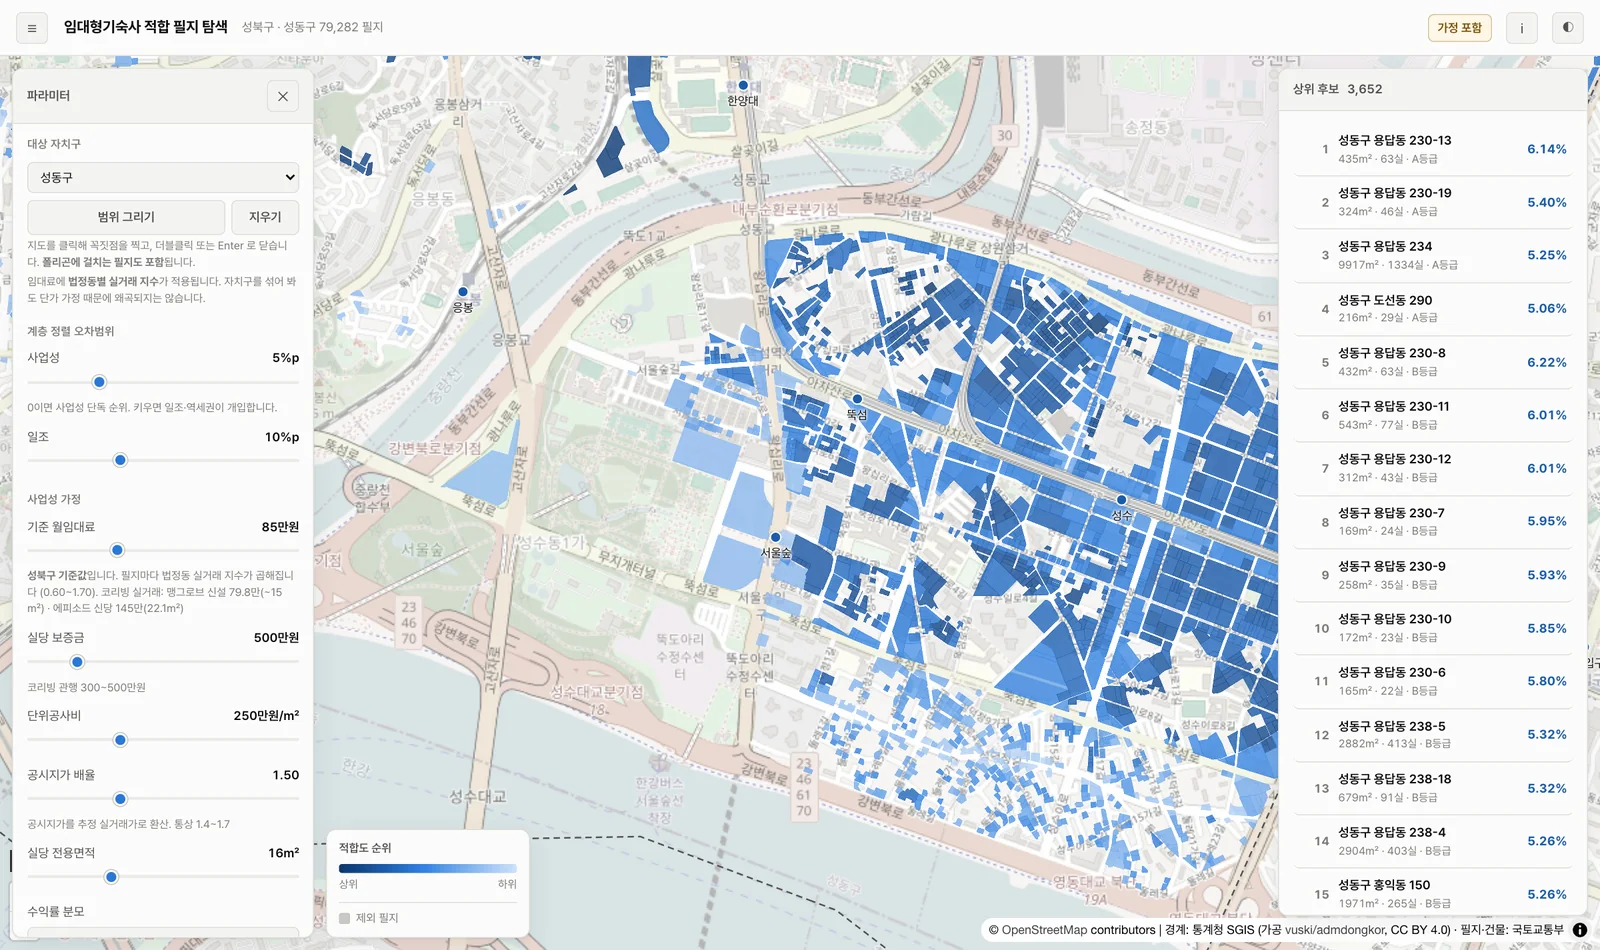
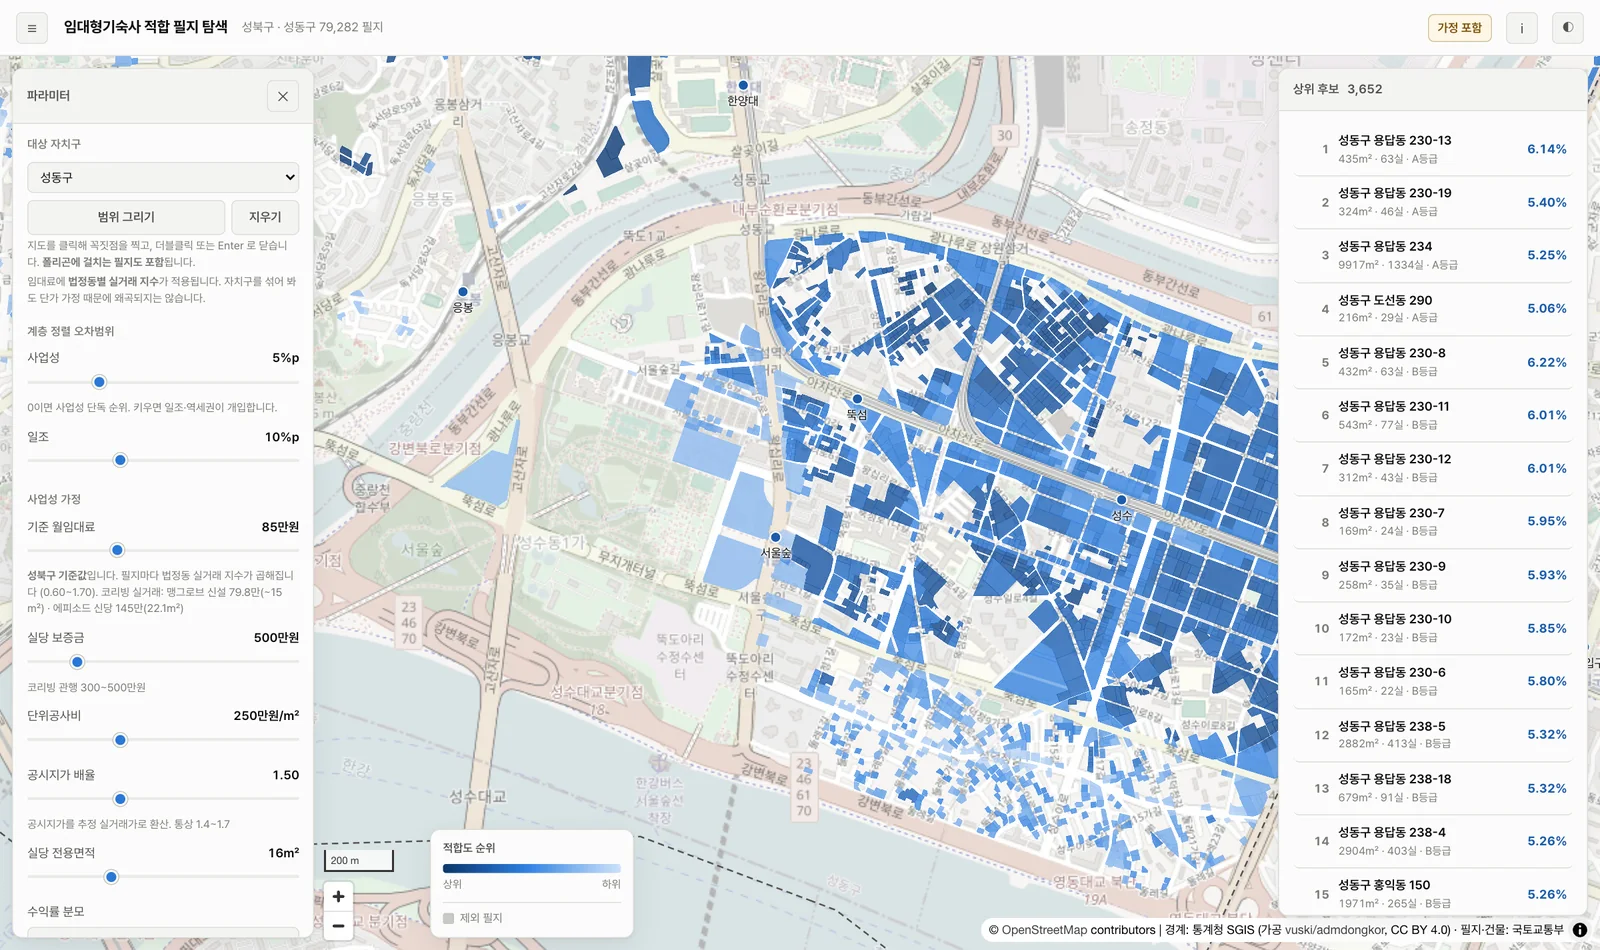
레이아웃 전면 점검 (D-033) — 32조합 중 20개가 깨져 있었다
"패널을 접으니 범례가 중간에 떠 있다" 는 지적에서 시작해 상태 8종 ×
화면폭 4종을 기계로 훑었다. 기존 "패널 겹침 없음" 검증은 몇 가지 상태만
봐서 통과하고 있었다.

찾은 것:
  1) 범례 left:326px 하드코딩 — 좌측 컬럼이 비어도 그대로 (지적받은 증상)
  2) 줌·축척 버튼이 패널 뒤로 들어가 눌리지 않음 — 점검 대상에서 빠져 있었다
  3) 모바일에서 거점 패널이 화면 밖 — #hub 스타일 35줄이 통째로
     @media (max-width:900px) 안에 복사돼 right:334px 를 그대로 받았다
  4) 모바일에서 상세·합필·거점이 서로를 덮음
  5) attribution(라이선스 표기)이 목록에 가림 — 390px 에서 52px 인데 26px 만 비움
  6) 합필 패널과 범례 6px 겹침 — 좌측 컬럼 폭 불일치(320/302)
  7) i 버튼이 모바일에서 17px 로 찌그러짐 — flex:none 누락

정리한 규칙:
  좌측 컬럼(--left-col)  파라미터 / 상세·합필      302px
  우측 컬럼              거점 / 후보 목록          310px
  하단 띠                지도 컨트롤 → 범례        좌측 컬럼만큼 비켜섬

거점 패널을 우측 컬럼으로 옮겼다. 3번째 컬럼은 1200px 미만에서 반드시
부딪힌다. 좁은 화면에서는 인스펙터 3종이 바텀시트 한 자리를 나눠 쓰고,
하단을 층으로 쌓는다(범례 → 축척 → 목록/시트 → attribution).

거점 합계가 목록에 묻히던 것도 고쳤다. sticky 로 붙였더니 뒤따르는 행을
덮어 더 나빴다. 마크업을 나눠 패널 바닥 고정 영역(#hubTot)으로 뺐다.

검증: §7 을 32조합 전수로 교체(지도 컨트롤 포함). 부팅 예산은 환경에
좌우되는 두 구간을 빼고 "우리 몫 200ms" 로 재정의(실측 124ms).
터치 타겟 정리 — 모바일 24px 미만 없음.

Changed region(s): [[0.1875, 0.8547, 0.4062, 1.0], [0.0, 0.9768, 0.0312, 1.0]]

diff --git a/web/style.css b/web/style.css
@@ -111,6 +111,8 @@ header .spacer { flex: 1; }
 
 .iconbtn {
   display: inline-flex; align-items: center; justify-content: center;
+  /* flex 로 눌리면 안 된다. 좁은 화면에서 17px 로 찌그러져 누르기 어려웠다. */
+  flex: none;
   width: 32px; height: 32px; border-radius: var(--r-ctl);
   background: var(--surface-2); color: var(--ink-2);
   border: 1px solid var(--border); cursor: pointer; font-size: 14px;
@@ -128,6 +130,10 @@ header .spacer { flex: 1; }
   border-radius: var(--r-panel); box-shadow: var(--shadow);
   display: flex; flex-direction: column; overflow: hidden;
 }
+/* 좌측 컬럼 폭. 하단 띠(지도 컨트롤·범례)가 이 값만큼 비켜선다.
+   비켜서지 않으면 줌 버튼이 패널 뒤로 들어가 눌리지 않는다(실제로 그랬다). */
+:root { --left-col: 314px; }
+body.left-empty { --left-col: 0px; }
 #params { top: calc(var(--header-h) + 12px); left: 12px; width: 302px;
           max-height: calc(100vh - var(--header-h) - 24px); }
 /* 햄버거로 접으면 패널을 아예 치운다 — 지도를 넓게 쓰라는 요청이므로
@@ -135,6 +141,8 @@ header .spacer { flex: 1; }
 body.params-off #params { display: none; }
 #paramsBtn { margin-right: 2px; }
 body.params-off #paramsBtn { background: var(--surface-3); }
+/* 지도 컨트롤은 패널 위로 올리고, 좌측 컬럼만큼 비켜세운다 */
+.maplibregl-ctrl-bottom-left { left: var(--left-col); z-index: 21; }
 .desktop-only { display: inline-grid; }
 @media (max-width: 900px) { .desktop-only { display: none; } }
 /* 상세 패널도 좌측 하단이라, 열리면 파라미터 높이를 줄여 겹치지 않게 한다. */
@@ -151,9 +159,14 @@ body.has-asm #params { max-height: calc(100vh - var(--header-h) - 62vh - 36px); 
 }
 .drawing #map { cursor: crosshair; }
 
+/* 거점은 결과물이므로 목록과 같은 우측 컬럼에 쌓는다.
+   별도 컬럼(right:334px)을 쓰면 1200px 미만에서 파라미터와 반드시 부딪힌다. */
 #hub {
-  top: calc(var(--header-h) + 12px); right: 334px; width: 344px;
-  max-height: calc(100vh - var(--header-h) - 46px);
+  top: calc(var(--header-h) + 12px); right: 12px; width: 310px; max-height: 52vh;
+}
+body.has-hub #list {
+  top: calc(var(--header-h) + 52vh + 24px);
+  max-height: calc(100vh - var(--header-h) - 52vh - 58px);
 }
 #hub[hidden] { display: none; }
 #hub .site {
@@ -177,20 +190,28 @@ body.has-asm #params { max-height: calc(100vh - var(--header-h) - 62vh - 36px); 
 #hub .site .nm:focus-visible { outline: 2px solid var(--accent-text); outline-offset: 2px; }
 /* 지금 보고 있는 거점 */
 #hub .site.on { background: var(--surface-2); border-radius: 6px; }
-#hub .site .meta { font-size: 11px; color: var(--ink-3); margin-top: 1px; }
+/* 폭이 좁아지면 "45 위" 처럼 어색하게 끊긴다. 넘치면 말줄임. */
+#hub .site .meta {
+  font-size: 11px; color: var(--ink-3); margin-top: 1px;
+  white-space: nowrap; overflow: hidden; text-overflow: ellipsis;
+}
+#hub .site .nm { white-space: nowrap; overflow: hidden; text-overflow: ellipsis; }
+#hub .site > div { min-width: 0; }   /* grid 자식이 줄어들 수 있게 */
 #hub .site .y { color: var(--accent-text); font-weight: 650; font-variant-numeric: tabular-nums; }
 #hub .site button[data-site] { border: 0; background: transparent; color: var(--ink-3);
   cursor: pointer; font-size: 13px; padding: 0 2px; }
 #hub .site button[data-site]:hover { color: var(--ink); }
-#hub .tot {
-  margin-top: 10px; padding-top: 10px; border-top: 1px solid var(--border);
-}
+/* 합계는 결론이다. 목록이 길어도 항상 보이도록 패널 바닥에 둔다.
+   스크롤 영역 안에 sticky 로 넣으면 뒤따르는 행을 덮어 잘린 것처럼 보인다. */
+#hubTot { flex: 0 0 auto; padding: 0 12px 12px; }
+#hubTot:empty { display: none; }
+#hub .tot { padding-top: 10px; border-top: 1px solid var(--border); }
 #hub .tot .big { font-size: 16px; font-weight: 700; font-variant-numeric: tabular-nums; }
 
 /* 합필은 좌측 하단(상세 패널 자리). 거점 패널과 자리를 나눈다.
    합필 모드에서는 필지를 눌러도 상세가 아니라 담기가 되므로 충돌하지 않는다. */
 #asm {
-  bottom: 12px; left: 12px; width: 320px; max-height: 62vh;
+  bottom: 12px; left: 12px; width: 302px; max-height: 62vh;
 }
 #asm[hidden] { display: none; }
 #asm .pill {
@@ -336,8 +357,11 @@ select:focus-visible { outline: 2px solid var(--accent); outline-offset: 1px; }
 
 /* ── 범례 ───────────────────────────────────────────────── */
 #legend {
-  /* 우측 하단은 후보 리스트가 차지한다. 지도 영역 안쪽 하단에 둔다. */
-  position: fixed; z-index: 20; bottom: 12px; left: 326px;
+  /* 우측 하단은 후보 리스트가 차지한다. 지도 영역 안쪽 하단에 둔다.
+     좌측 컬럼(파라미터·상세·합필)이 비면 왼쪽 끝으로 붙는다 —
+     고정 오프셋으로 두면 패널을 접었을 때 화면 중앙에 떠 보인다. */
+  position: fixed; z-index: 20; bottom: 12px;
+  left: calc(var(--left-col) + 116px);   /* 지도 컨트롤(축척 ~96px) 다음 자리 */
   background: var(--surface); border: 1px solid var(--border);
   border-radius: var(--r-panel); box-shadow: var(--shadow);
   padding: 10px 12px; font-size: 11.5px;
@@ -387,60 +411,49 @@ select:focus-visible { outline: 2px solid var(--accent); outline-offset: 1px; }
   /* 모바일은 지도가 주인공이다. 파라미터는 기본 접힘, 범례는 리스트 위로 보낸다.
      (범례를 우상단에 두면 파라미터 패널을 가린다.) */
   header .sub { display: none; }
+  /* 버튼이 눌리지 않도록 제목이 대신 줄어든다 */
+  header h1 { min-width: 0; overflow: hidden; text-overflow: ellipsis; white-space: nowrap; }
+  /* 손가락용. 트랙 높이와 손잡이를 키운다 */
+  input[type="range"] { height: 26px; }
+  input[type="range"]::-webkit-slider-thumb { width: 20px; height: 20px; margin-top: -8.5px; }
   #params, #list, #detail { left: 8px; right: 8px; width: auto; }
   #params { top: calc(var(--header-h) + 8px); max-height: 56vh; }
   #params[data-collapsed="true"] { max-height: none; }
   #params[data-collapsed="true"] .body { display: none; }
-  #list { top: auto; bottom: 26px; max-height: 34vh; }
+  #list { top: auto; max-height: 34vh; }
   #list[data-collapsed="true"] .body { display: none; }
   #detail { bottom: 8px; max-height: 56vh; z-index: 25; }
-  #drawBtn[aria-pressed="true"] {
-  background: var(--accent); color: var(--accent-ink); border-color: var(--accent);
-}
-.drawing #map { cursor: crosshair; }
-
-#hub {
-  top: calc(var(--header-h) + 12px); right: 334px; width: 344px;
-  max-height: calc(100vh - var(--header-h) - 46px);
-}
-#hub[hidden] { display: none; }
-#hub .site {
-  display: grid; grid-template-columns: 22px 1fr auto auto; gap: 8px;
-  align-items: center; padding: 7px 4px; border-bottom: 1px solid var(--border);
-  font-size: 12px;
-}
-#hub .site:last-child { border-bottom: 0; }
-#hub .site .no {
-  width: 20px; height: 20px; border-radius: 999px; background: var(--accent);
-  color: var(--accent-ink); display: grid; place-items: center;
-  font-size: 11px; font-weight: 700;
-}
-/* 이름은 버튼이다 — 누르면 그 거점으로 지도가 이동한다 */
-#hub .site .nm {
-  font: inherit; font-weight: 550; color: var(--ink);
-  border: 0; background: transparent; padding: 0; text-align: left;
-  cursor: pointer; display: block; width: 100%;
-}
-#hub .site .nm:hover { color: var(--accent-text); text-decoration: underline; }
-#hub .site .nm:focus-visible { outline: 2px solid var(--accent-text); outline-offset: 2px; }
-/* 지금 보고 있는 거점 */
-#hub .site.on { background: var(--surface-2); border-radius: 6px; }
-#hub .site .meta { font-size: 11px; color: var(--ink-3); margin-top: 1px; }
-#hub .site .y { color: var(--accent-text); font-weight: 650; font-variant-numeric: tabular-nums; }
-#hub .site button[data-site] { border: 0; background: transparent; color: var(--ink-3);
-  cursor: pointer; font-size: 13px; padding: 0 2px; }
-#hub .site button[data-site]:hover { color: var(--ink); }
-#hub .tot {
-  margin-top: 10px; padding-top: 10px; border-top: 1px solid var(--border);
-}
-#hub .tot .big { font-size: 16px; font-weight: 700; font-variant-numeric: tabular-nums; }
-
-#asm { top: auto; bottom: 26px; left: 8px; right: 8px; width: auto; max-height: 52vh; z-index: 26; }
+  /* 인스펙터 3종(상세·합필·거점)은 하나의 바텀시트 자리를 나눠 쓴다.
+     좁은 화면에서 셋을 동시에 띄우면 서로를 덮는다. app.js 가 하나만 열어 둔다. */
+  #detail, #asm, #hub {
+    top: auto; left: 8px; right: 8px; width: auto;
+    max-height: 56vh; z-index: 25;
+  }
+  body.has-detail #params, body.has-asm #params, body.has-hub #params {
+    max-height: none;
+  }
+  body.has-detail #params .body,
+  body.has-asm #params .body,
+  body.has-hub #params .body { display: none; }
+  /* 시트가 열리면 목록은 가려지므로 접는다 (겹쳐 두면 스크롤이 엉킨다) */
+  body.has-sheet #list .body { display: none; }
+  body.has-sheet #list { max-height: none; bottom: calc(56vh + var(--mobile-bottom) + 8px); }
   body.has-detail #params { max-height: none; }
   body.has-detail #params .body { display: none; }
-  #legend {
-    bottom: calc(34vh + 34px); top: auto; left: 8px; right: auto; padding: 7px 9px;
-  }
+  #legend { top: auto; left: 8px; right: auto; padding: 7px 9px; }
+  /* 시트가 열리면 화면의 절반 이상을 차지한다. 범례는 부차적이므로 비켜 준다. */
+  body.has-sheet #legend { display: none; }
+  /* 좁은 화면의 하단은 층으로 쌓는다. 같은 자리에 두면 서로 덮는다.
+       [범례] → [축척] → [목록/시트] → [attribution]
+     attribution 은 라이선스 표기라 절대 가리면 안 된다. 390px 에서 두 줄로
+     접혀 52px 를 차지하므로 그만큼 띄운다. */
+  :root { --left-col: 0px; --mobile-bottom: 58px; }
+  #list, #detail, #asm, #hub { bottom: var(--mobile-bottom); }
+  /* 줌 버튼은 핀치로 대체하고 축척만 남긴다 */
+  .maplibregl-ctrl-bottom-left .maplibregl-ctrl-group { display: none; }
+  .maplibregl-ctrl-bottom-left { bottom: calc(var(--mobile-bottom) + 34vh + 8px); }
+  body.has-sheet .maplibregl-ctrl-bottom-left { display: none; }
+  #legend { bottom: calc(var(--mobile-bottom) + 34vh + 48px); }
   #legend .ramp { width: 116px; }
   #legend .ex { margin-top: 6px; padding-top: 5px; }
   .mobile-only { display: inline-flex; }

diff --git a/web/app.js b/web/app.js
@@ -194,6 +194,7 @@ function renderDetail(id) {
   $("detailName").textContent = state.nameOf(id) || id;
   $("detail").hidden = false;
   if (!$("asm").hidden && !$("asmMode").checked) $("asm").hidden = true;
+  keepOneSheet("detail");
   syncPanelFlags();
 
   if (i === undefined) {
@@ -333,10 +334,29 @@ function asmToggle(id) {
 
 /* 패널 열림 상태를 body 클래스에 반영. 레이아웃(높이 제한)이 여기에 달려
    있는데 토글이 코드 다섯 군데에 흩어져 있어 한 경로가 빠지면 패널이 겹쳤다. */
+const NARROW = () => matchMedia("(max-width: 900px)").matches;
+
 function syncPanelFlags() {
-  document.body.classList.toggle("has-asm", !$("asm").hidden);
-  document.body.classList.toggle("has-detail", !$("detail").hidden);
-  document.body.classList.toggle("has-hub", !$("hub").hidden);
+  const b = document.body;
+  b.classList.toggle("has-asm", !$("asm").hidden);
+  b.classList.toggle("has-detail", !$("detail").hidden);
+  b.classList.toggle("has-hub", !$("hub").hidden);
+  b.classList.toggle("has-sheet",
+    NARROW() && (!$("asm").hidden || !$("detail").hidden || !$("hub").hidden));
+  // 범례는 좌측 컬럼 옆에 붙어 있다. 컬럼이 비면 왼쪽 끝으로 옮긴다 —
+  // 고정 오프셋이면 파라미터를 접었을 때 화면 중앙에 떠 보인다.
+  b.classList.toggle("left-empty",
+    !NARROW() && b.classList.contains("params-off")
+    && $("detail").hidden && $("asm").hidden);
+}
+
+/* 좁은 화면에서 인스펙터 3종은 바텀시트 한 자리를 나눠 쓴다.
+   동시에 띄우면 서로를 덮어 스크롤과 초점이 엉킨다. */
+function keepOneSheet(open) {
+  if (!NARROW()) return;
+  for (const id of ["detail", "asm", "hub"]) {
+    if (id !== open && !$(id).hidden) $(id).hidden = true;
+  }
 }
 
 function paintAsm() {
@@ -358,6 +378,7 @@ function renderAsm() {
     return;
   }
   $("asm").hidden = false;
+  keepOneSheet("asm");
   syncPanelFlags();
 
   const D = state.D;
@@ -603,6 +624,7 @@ function renderHub() {
     return;
   }
   $("hub").hidden = false;
+  keepOneSheet("hub");
   syncPanelFlags();
   const D = state.D;
 
@@ -649,7 +671,8 @@ function renderHub() {
        이격을 줄이거나 거점 수를 낮추세요.</div>`
     : "";
 
-  el.innerHTML = rows + shortNote + `
+  el.innerHTML = rows;
+  $("hubTot").innerHTML = shortNote + `
     <div class="tot">
       <div class="big">${rooms.toLocaleString()}실 · ${(cost / 1e8).toFixed(0)}억</div>
       <dl class="kv" style="margin-top:7px">
@@ -1232,10 +1255,12 @@ function wireUI() {
   const setParams = (open) => {
     document.body.classList.toggle("params-off", !open);
     $("paramsBtn").setAttribute("aria-expanded", String(open));
+    syncPanelFlags();   // 범례 위치가 좌측 컬럼 점유에 달려 있다
     try { localStorage.setItem("dss-params", open ? "1" : "0"); } catch {}
   };
   const toggleParams = () => setParams(document.body.classList.contains("params-off"));
   $("paramsBtn").addEventListener("click", toggleParams);
+  addEventListener("resize", syncPanelFlags);
   $("paramsClose").addEventListener("click", () => setParams(false));
   let savedParams = null;
   try { savedParams = localStorage.getItem("dss-params"); } catch {}

diff --git a/web/index.html b/web/index.html
@@ -197,6 +197,7 @@
     <button class="iconbtn" id="hubClear" aria-label="비우기" title="비우기">↺</button>
     <button class="iconbtn" id="hubClose" aria-label="닫기">✕</button></h2>
   <div class="body" id="hubBody"></div>
+  <div id="hubTot"></div>
 </section>
 
 <!-- 합필 -->

diff --git a/docs/DECISIONS.md b/docs/DECISIONS.md
@@ -1057,6 +1057,68 @@ if (picked.length + fixed.length >= n) break;
 
 ---
 
+## D-033 · 레이아웃 전면 점검 — "겹침 없음" 이 거짓이었다
+
+**상태:** 확정 (2026-09-02)
+
+"패널을 접으니 범례가 중간에 떠 있다" 는 지적에서 시작해 전 상태를 기계로 훑었다.
+**상태 8종 × 화면폭 4종 = 32조합 중 20조합이 깨져 있었다.**
+기존 검증의 "패널 겹침 없음" 은 몇 가지 상태만 봐서 통과하고 있었다.
+
+### 찾은 것
+
+| | 문제 | 원인 |
+|---|---|---|
+| 1 | 범례가 화면 중앙에 뜸 | `left: 326px` 하드코딩. 좌측 컬럼이 비어도 그대로 |
+| 2 | **줌·축척 버튼이 패널 뒤로 들어가 눌리지 않음** | 지도 컨트롤을 점검 대상에서 빼놓았다 |
+| 3 | 모바일에서 거점 패널이 화면 밖 | `#hub` 데스크톱 규칙이 **모바일 미디어쿼리 안에 복사**돼 `right:334px` 를 그대로 받음 |
+| 4 | 모바일에서 상세·합필·거점이 서로를 덮음 | 셋 다 바텀시트 자리인데 동시에 열림 |
+| 5 | attribution(라이선스 표기)이 목록에 가림 | 390px 에서 두 줄로 접혀 52px 인데 26px 만 비워 둠 |
+| 6 | 합필 패널과 범례가 6px 겹침 | 좌측 컬럼 폭 불일치 (합필 320 / 나머지 302) |
+| 7 | `i` 버튼이 모바일에서 17px 로 찌그러짐 | 헤더 flex 에서 눌림 (`flex: none` 누락) |
+
+3번은 CSS 구조 결함이었다. 중괄호 깊이를 세어 보고 알았다 —
+`#hub` 스타일 35줄이 통째로 `@media (max-width: 900px)` **안에** 있었다.
+
+### 정리한 규칙
+
+```
+좌측 컬럼(--left-col)   파라미터(위) / 상세·합필(아래)   폭 302px 고정
+우측 컬럼               거점(위) / 후보 목록(아래)        폭 310px 고정
+하단 띠                 지도 컨트롤 → 범례                좌측 컬럼만큼 비켜섬
+```
+
+- **거점 패널을 우측 컬럼으로 옮겼다.** 별도 3번째 컬럼(`right:334px`)은
+  1200px 미만에서 파라미터와 반드시 부딪힌다. 결과물이라는 성격상 목록과 같은 열이 맞다.
+- **하단 띠가 `--left-col` 을 따라 움직인다.** 파라미터를 접으면 컨트롤과 범례가
+  같이 왼쪽으로 붙는다. 고정 오프셋이 지적받은 "중간에 뜬 범례" 의 원인이었다.
+- **좁은 화면에서는 인스펙터 3종이 바텀시트 한 자리를 나눠 쓴다.** 하나를 열면
+  나머지가 닫힌다. 하단은 층으로 쌓는다: 범례 → 축척 → 목록/시트 → attribution.
+- 좁은 화면에서 줌 버튼은 숨긴다(핀치로 대체). 축척은 남긴다.
+
+### 합계는 스크롤 영역 밖으로
+
+거점 요약(총 실 수·사업비·수익률)이 목록에 묻혀 안 보였다. `position: sticky` 로
+붙였더니 **뒤따르는 행을 덮어** 더 나빠졌다. 마크업을 나눠 패널 바닥의 고정
+영역(`#hubTot`)으로 뺐다. 결론은 목록 길이와 무관하게 보여야 한다.
+
+### 검증에 32조합을 고정했다
+
+`tools/verify_ui.mjs` §7 이 상태 8종 × 화면폭 4종을 전부 돌며 겹침·화면 밖을 본다.
+**지도 컨트롤을 포함한다** — 빼놓으면 "겹침 없음" 이 거짓이 된다.
+
+부팅 예산도 손봤다. `데이터 대기` 에 동기 WebGL 초기화가 메인 스레드를 잡은
+시간이 흘러들어 336ms~1,038ms 로 요동친다. 환경에 좌우되는 두 구간
+(`Map 생성자`·`데이터 대기`)을 빼고 **우리 몫 200ms 이내**로 다시 잡았다 (실측 124ms).
+
+### 사용성
+
+터치 타겟을 훑어 모바일 24px 미만을 없앴다 (`i` 버튼, 슬라이더 손잡이 14→20px).
+남은 것은 본문 인라인 링크 두 개뿐이다. 체크박스는 `<label>` 로 감싸져 있어
+실제 타겟이 충분하다 — 입력 요소만 재면 오탐이 난다.
+
+---
+
 ## 미결 사항
 
 | ID | 질문 | 왜 중요한가 |

diff --git a/README.md b/README.md
@@ -414,6 +414,7 @@ node tools/verify_ui.mjs
   **거점 구간 콘솔 오류 0건**
 - **역 라벨**: 심볼 레이어 0개 / 글리프 URL 없음(외부 폰트 의존 차단),
   확대 시 표시·축소 시 숨김·겹침 0쌍
+- **레이아웃**: 상태 8종 × 화면폭 4종 = **32조합** 전수 (지도 컨트롤 포함)
 - **거점 조작**: 거점 수 8→3→6 반영, 자동 선정이 수동 거점을 지우지 않음,
   이름·핀 클릭 시 해당 거점으로 이동
 - **파라미터 접기**: 햄버거 여닫기·상태 기억·`P` 단축키
